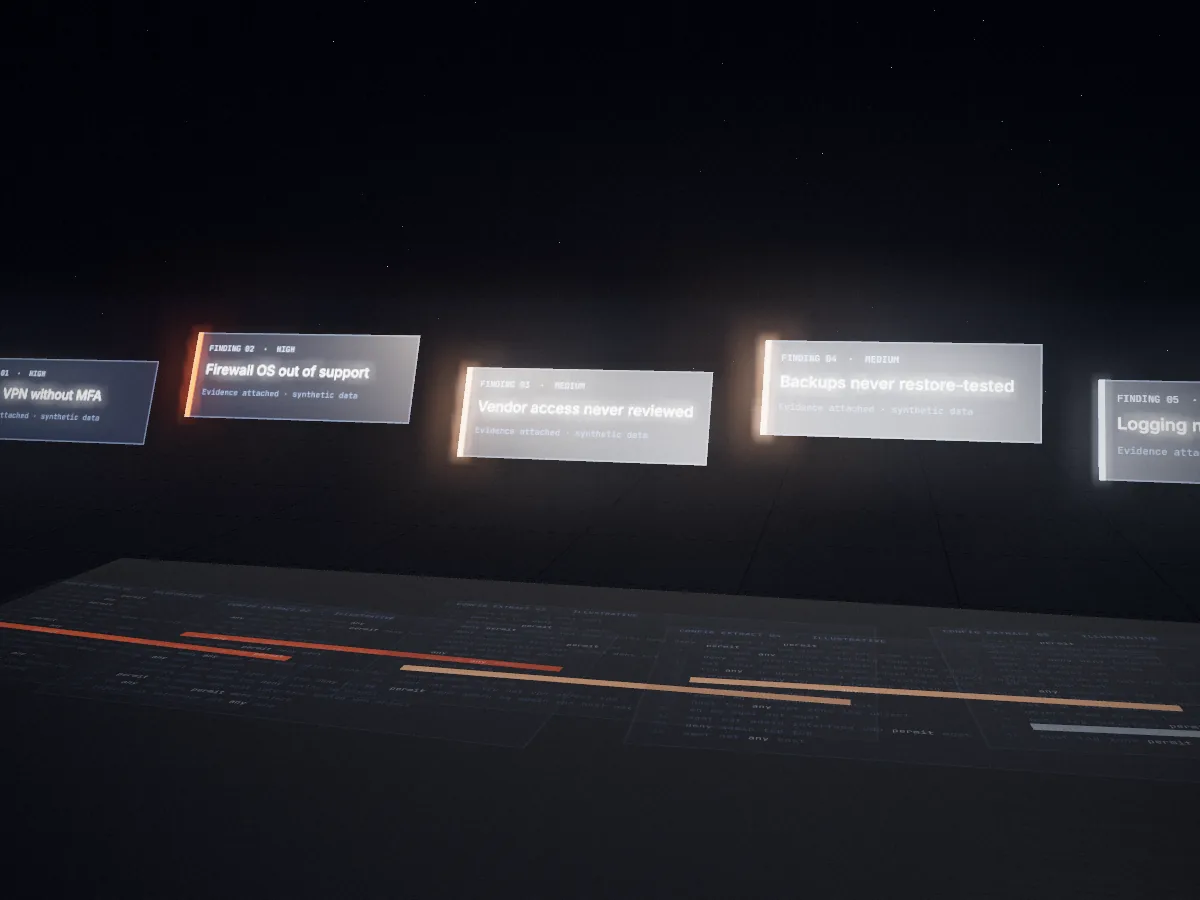
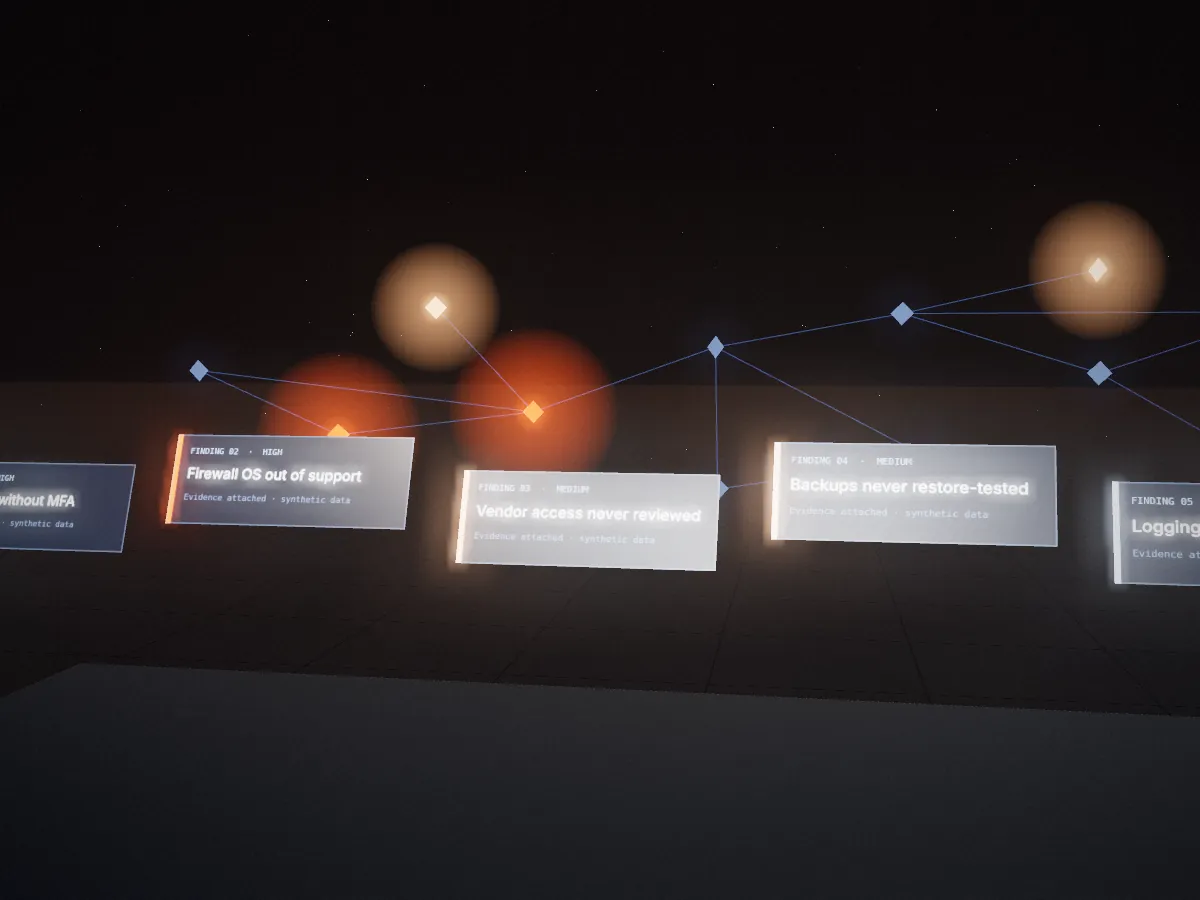
Give each hero scene its own background tint
Migration: deep navy. Segmentation: dark teal-blue. Assessment: warm
charcoal. MSP: cool slate. Background, fog and floor colours are set per
scene so the four no longer share one near-black backdrop. Posters, homepage
cards and the MSP section background are re-rendered to match.

Claude-Session: https://claude.ai/code/session_01HRxsGLBN173gTRBUJFHDZX

Changed region(s): [[0.0, 0.2178, 1.0, 0.84]]

diff --git a/stage/scene-migration.js b/stage/scene-migration.js
@@ -69,6 +69,7 @@ function texHeader(THREE, title, sub, accent) {
 export function migrationScene(ctx) {
   const { THREE, scene, renderer } = ctx;
   scene.fog.density = 0.06;
+  scene.background.setHex(0x040a18); scene.fog.color.setHex(0x07122a); // per-scene tint
 
   // lights: cool ambient, one warm accent that follows the new platform
   scene.add(new THREE.HemisphereLight(0x22355c, 0x020308, 0.55));
@@ -199,7 +200,7 @@ export function migrationScene(ctx) {
 
   return {
     duration: L,
-    floor: { tile: 0.8, base: 0x04070d, reflect: 0.85 },
+    floor: { tile: 0.8, base: 0x050b18, reflect: 0.85 },
     chapters: [{ start: 0, label: 'Scope' }, { start: 5.5, label: 'Stage' }, { start: 11, label: 'Cut over' }, { start: 16.5, label: 'Validate' }],
     labels: [
       { text: '0 hits · remove', tone: 'accent', at: rowLabel(firstDrop, 0.86), alpha: (t) => smooth(flagAt(firstDrop) + 0.2, flagAt(firstDrop) + 0.6, t) * (1 - smooth(5.4, 5.9, t)) },

diff --git a/stage/scene-segmentation.js b/stage/scene-segmentation.js
@@ -24,6 +24,7 @@ const CUT0 = 8.2, CUT1 = 10.0;                 // cross-zone links cut
 export function segmentationScene(ctx) {
   const { THREE, scene, renderer } = ctx;
   scene.fog.density = 0.055;
+  scene.background.setHex(0x03141c); scene.fog.color.setHex(0x0b2c38); // per-scene tint
   const r = rand(21);
 
   scene.add(new THREE.HemisphereLight(0x22355c, 0x020308, 0.55));
@@ -136,7 +137,7 @@ export function segmentationScene(ctx) {
 
   return {
     duration: L,
-    floor: { tile: 0.6, base: 0x04070d, reflect: 0.85 },
+    floor: { tile: 0.6, base: 0x04121a, reflect: 0.85 },
     chapters: [{ start: 0, label: 'Flat network' }, { start: 5.5, label: 'Zones' }, { start: 11, label: 'Approved paths' }, { start: 16.5, label: 'Test' }],
     labels: [
       { text: 'Flat network · everything reaches everything', tone: 'stop', at: (t, v) => v.set(0.4, 0.62, -1.3), alpha: (t) => smooth(1.2, 1.8, t) * (1 - smooth(5.0, 5.6, t)) },

diff --git a/stage/scene-msp.js b/stage/scene-msp.js
@@ -58,6 +58,7 @@ function texRow(THREE, s, i) {
 export function mspScene(ctx) {
   const { THREE, scene, renderer } = ctx;
   scene.fog.density = 0.055;
+  scene.background.setHex(0x10151f); scene.fog.color.setHex(0x212b3d); // per-scene tint
   const V = (x, y, z) => new THREE.Vector3(x, y, z);
 
   scene.add(new THREE.HemisphereLight(0x22355c, 0x020308, 0.55));
@@ -143,7 +144,7 @@ export function mspScene(ctx) {
 
   return {
     duration: L,
-    floor: { tile: 0.7, base: 0x04070d, reflect: 0.85 },
+    floor: { tile: 0.7, base: 0x0c1119, reflect: 0.85 },
     chapters: [{ start: 0, label: 'Scope' }, { start: 5.5, label: 'Engineer' }, { start: 11, label: 'Validate' }, { start: 16.5, label: 'Hand over' }],
     labels: [
       { text: 'Your clients', at: (t, v) => v.set(-1.62, 0.42, 0.3), alpha: (t) => smooth(0.6, 1.3, t) * (1 - smooth(4.6, 5.2, t)) },

diff --git a/stage/scene-assessment.js b/stage/scene-assessment.js
@@ -83,6 +83,7 @@ function texRoadmap(THREE) {
 export function assessmentScene(ctx) {
   const { THREE, scene, renderer } = ctx;
   scene.fog.density = 0.07;
+  scene.background.setHex(0x1c130c); scene.fog.color.setHex(0x2e2016); // per-scene tint
   const brushed = texBrushed(THREE);
 
   // lights
@@ -190,7 +191,7 @@ export function assessmentScene(ctx) {
 
   return {
     duration: L,
-    floor: { tile: 0.8, base: 0x04070d, reflect: 0.8 },
+    floor: { tile: 0.8, base: 0x150e09, reflect: 0.8 },
     chapters: [{ start: 0, label: 'Inspect' }, { start: 5.5, label: 'Evidence' }, { start: 11, label: 'Prioritize' }, { start: 16.5, label: 'Roadmap' }],
     labels: [
       { text: 'Network map', at: (t, v) => v.set(-1.25, 1.36, -1.05), alpha: (t) => smooth(6.0, 6.6, t) * (1 - smooth(8.6, 9.0, t)) },
